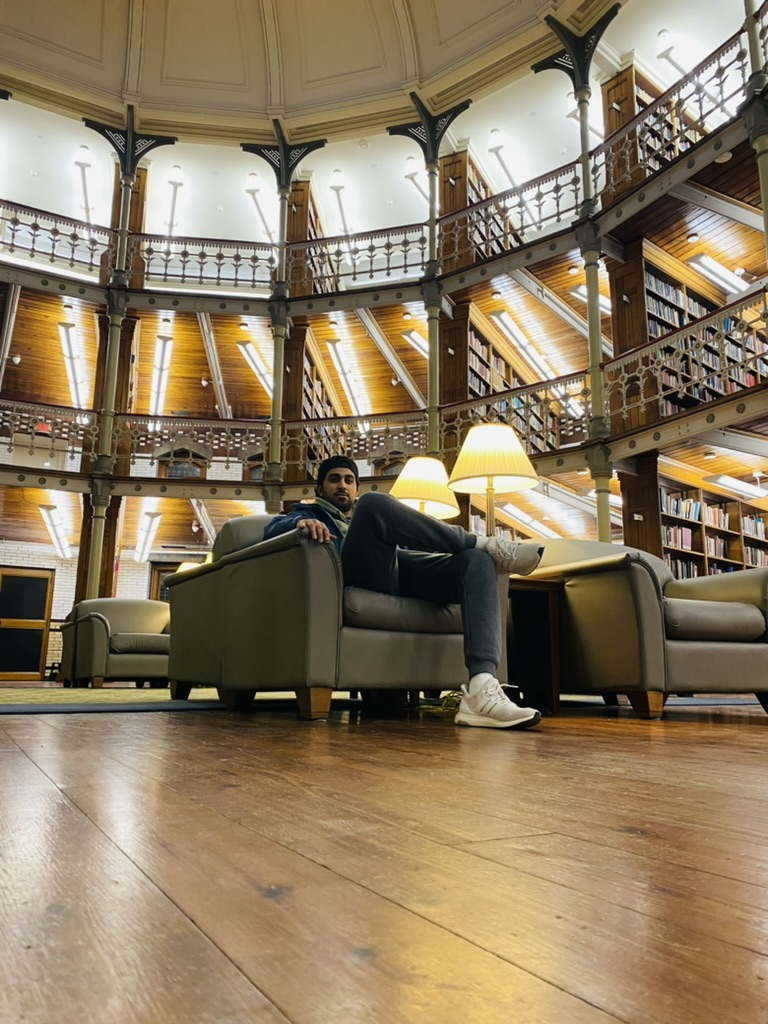
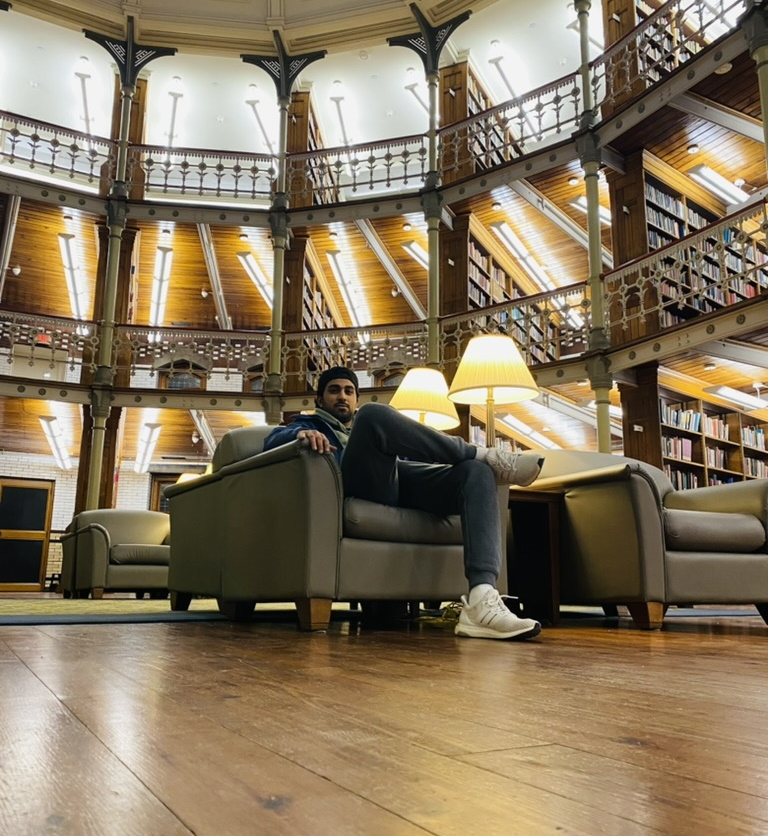
Fixed officer img scaling

diff --git a/static/styles/about-styles/about.scss b/static/styles/about-styles/about.scss
@@ -173,6 +173,7 @@ section.mission-sect{
                         }
                         img{
                             width: 255px;
+                            height: 279px;
                             border-radius: 20px;
                         }
                     }
@@ -181,7 +182,8 @@ section.mission-sect{
                         box-shadow: 0px 4px 4px rgba(0, 0, 0, 0.35);
                         img{
                             transition: .25s;
-                            width: 280px;
+                            width: 275px;
+                            height: 299px;
                             border-radius: 20px;
                         }
                     }

diff --git a/static/styles/about-styles/about.css b/static/styles/about-styles/about.css
@@ -170,6 +170,7 @@ section.mission-sect .container .desc-involved p {
 }
 .officer-sect .container .content .card-container a .card img {
   width: 255px;
+  height: 279px;
   border-radius: 20px;
 }
 .officer-sect .container .content .card-container a .card:hover {
@@ -178,7 +179,8 @@ section.mission-sect .container .desc-involved p {
 }
 .officer-sect .container .content .card-container a .card:hover img {
   transition: 0.25s;
-  width: 280px;
+  width: 275px;
+  height: 299px;
   border-radius: 20px;
 }
 
